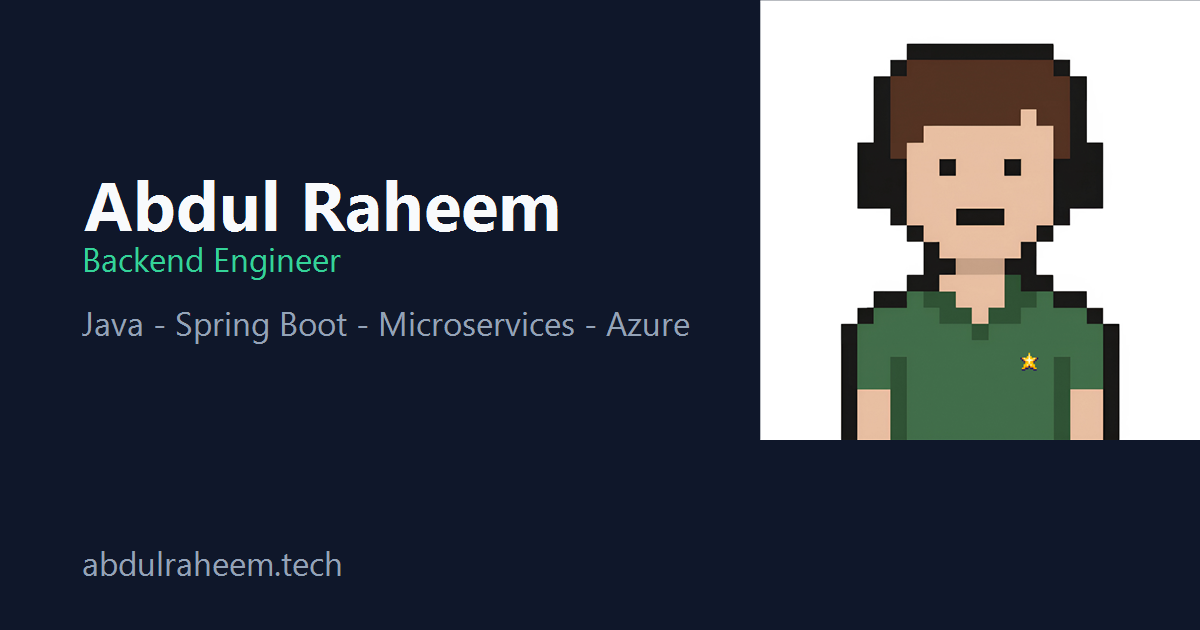
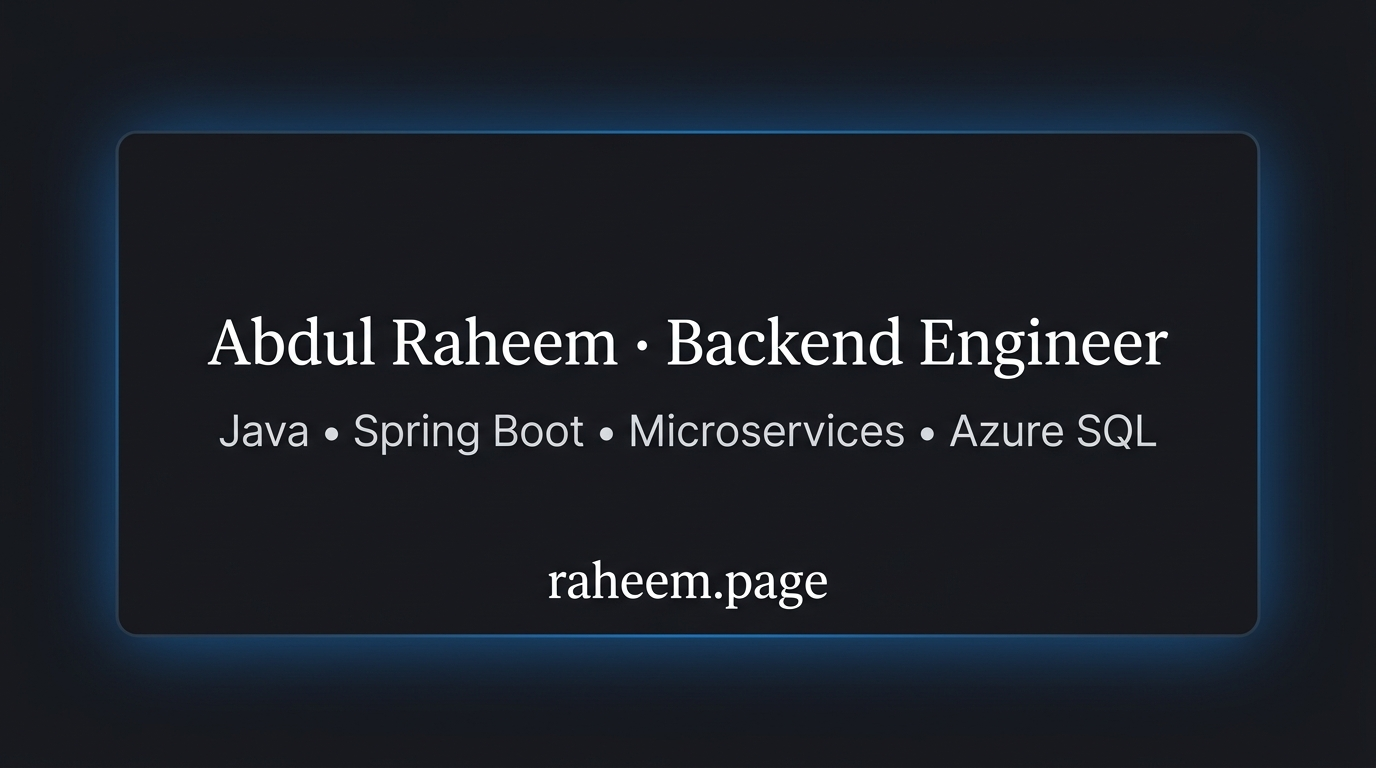
SEO

diff --git a/src/pages/index.js b/src/pages/index.js
@@ -49,7 +49,7 @@ export default function Home() {
         <meta property="og:locale" content="en_US" />
         <meta property="og:title" content={`${PROFILE.name} · ${PROFILE.title}`} />
         <meta property="og:description" content={PROFILE.bio} />
-        <meta property="og:image" content="https://raheem.page/og-image.png" />
+        <meta property="og:image" content="https://raheem.page/og-image.webp" />
         <meta property="og:image:width" content="1200" />
         <meta property="og:image:height" content="630" />
         <meta property="og:image:alt" content="Abdul Raheem - Backend Engineer Portfolio" />
@@ -59,14 +59,14 @@ export default function Home() {
         <meta name="twitter:url" content="https://raheem.page/" />
         <meta name="twitter:title" content={`${PROFILE.name} · ${PROFILE.title}`} />
         <meta name="twitter:description" content={PROFILE.bio} />
-        <meta name="twitter:image" content="https://raheem.page/og-image.png" />
+        <meta name="twitter:image" content="https://raheem.page/og-image.webp" />
         <meta name="twitter:image:alt" content="Abdul Raheem - Backend Engineer Portfolio" />
 
         {/* Asset preconnects */}
         <link rel="preconnect" href="https://raw.githubusercontent.com" crossOrigin="anonymous" />
         <link rel="dns-prefetch" href="https://raw.githubusercontent.com" />
-        <link rel="icon" href={`${base}/profile-favicon.png`} type="image/png" />
-        <link rel="apple-touch-icon" href={`${base}/profile-favicon.png`} />
+        <link rel="icon" href={`${base}/profile-favicon.webp`} type="image/webp" />
+        <link rel="apple-touch-icon" href={`${base}/profile-favicon.webp`} />
 
         {/* Structured Data (JSON-LD) */}
         <script
@@ -118,6 +118,13 @@ export default function Home() {
                   name: `${PROFILE.name} · ${PROFILE.title}`,
                   description: PROFILE.bio,
                   mainEntity: { '@id': 'https://raheem.page/#person' },
+                },
+                {
+                  '@type': 'WebSite',
+                  '@id': 'https://raheem.page/#website',
+                  url: PROFILE.website,
+                  name: `${PROFILE.name} Portfolio`,
+                  publisher: { '@id': 'https://raheem.page/#person' },
                 },
               ],
             }),

diff --git a/src/components/features/BentoProjects.js b/src/components/features/BentoProjects.js
@@ -19,9 +19,25 @@ export const BentoProjects = () => {
           >
             <div className="flex flex-col gap-2.5">
               <div className="flex items-center justify-between gap-2">
-                <h3 className="text-sm sm:text-base font-bold text-(--color-text-primary) tracking-tight">
-                  {project.title}
-                </h3>
+                <div className="flex items-center gap-2">
+                  <h3 className="text-sm sm:text-base font-bold text-(--color-text-primary) tracking-tight">
+                    {project.title}
+                  </h3>
+                  {project.repoUrl && (
+                    <a
+                      href={project.repoUrl}
+                      target="_blank"
+                      rel="noopener noreferrer"
+                      className="text-(--color-text-muted) hover:text-(--color-accent-blue) transition-colors"
+                      title="View GitHub Repository"
+                      aria-label={`View GitHub repository for ${project.title}`}
+                    >
+                      <svg className="w-3.5 h-3.5 fill-current" viewBox="0 0 24 24">
+                        <path d="M12 0C5.37 0 0 5.37 0 12c0 5.31 3.435 9.795 8.205 11.385.6.105.825-.255.825-.57 0-.285-.015-1.23-.015-2.235-3.015.555-3.795-.735-4.035-1.41-.135-.345-.72-1.41-1.23-1.695-.42-.225-1.02-.78-.015-.795.945-.015 1.62.87 1.845 1.23 1.08 1.815 2.805 1.305 3.495.99.105-.78.42-1.305.765-1.605-2.67-.3-5.46-1.335-5.46-5.925 0-1.305.465-2.385 1.23-3.225-.12-.3-.54-1.53.12-3.18 0 0 1.005-.315 3.3 1.23.96-.27 1.98-.405 3-.405s2.04.135 3 .405c2.295-1.56 3.3-1.23 3.3-1.23.66 1.65.24 2.88.12 3.18.765.84 1.23 1.905 1.23 3.225 0 4.605-2.805 5.625-5.475 5.925.435.375.81 1.095.81 2.22 0 1.605-.015 2.895-.015 3.3 0 .315.225.69.825.57A12.02 12.02 0 0024 12c0-6.63-5.37-12-12-12z"/>
+                      </svg>
+                    </a>
+                  )}
+                </div>
                 <span className="text-[11px] font-mono text-(--color-text-muted) tabular-nums shrink-0">
                   {project.period}
                 </span>

diff --git a/src/data/resumeData.js b/src/data/resumeData.js
@@ -16,7 +16,7 @@ export const PROFILE = {
   social: {
     email: "77abdulraheem@gmail.com",
     linkedin: "https://www.linkedin.com/in/raheem02",
-    github: "https://github.com/raheem022",
+    github: "https://github.com/Raheem02",
   },
 }
 
@@ -83,6 +83,7 @@ export const PROJECTS = [
     title: "Phishing URL Detection System",
     description:
       "Developed a multi-signal phishing URL detection pipeline analyzing 1.3 million URLs by aggregating lexical features, WHOIS metadata, SSL validation, and threat intelligence sources. Trained LightGBM and Random Forest classification models and built a FastAPI backend service delivering real-time URL risk scoring with sub-300ms inference latency.",
+    repoUrl: "https://github.com/Raheem02/minimal-portfolio",
     stack: [
       "FastAPI",
       "LightGBM",
@@ -99,6 +100,7 @@ export const PROJECTS = [
     title: "Learn with AR Platform",
     description:
       "Designed and developed an Android AR learning application funded by the Karnataka State Council for Science and Technology (KSCST). Built with Unity 3D and ARCore to deliver interactive 3D visualizations across 8 educational modules. Implemented markerless AR rendering, integrated Blender 3D assets, and optimized mobile graphics performance.",
+    repoUrl: "https://github.com/Raheem02/minimal-portfolio",
     stack: ["Unity 3D", "ARCore", "C#", "Blender", "Android"],
     featured: true,
   },

diff --git a/src/components/features/SidebarProfile.js b/src/components/features/SidebarProfile.js
@@ -6,7 +6,7 @@ import SocialIcons from '../ui/SocialIcons';
 
 export const SidebarProfile = () => {
   const { basePath } = useRouter();
-  const profileSrc = `${basePath || ''}/profile-160.png`;
+  const profileSrc = `${basePath || ''}/profile-160.webp`;
 
   return (
     <aside
@@ -67,7 +67,7 @@ export const SidebarProfile = () => {
         {/* Source action */}
         <div>
           <a
-            href="https://github.com/raheem022/Portfolio"
+            href="https://github.com/Raheem02/minimal-portfolio"
             target="_blank"
             rel="noopener noreferrer"
             className="w-full min-h-[44px] px-4 rounded-lg bg-(--color-surface-subtle) hover:bg-(--color-surface-subtle-hover) border border-(--color-border-subtle) hover:border-(--color-card-border-hover) text-(--color-text-primary) text-xs font-medium flex items-center justify-center transition-colors duration-150 focus-visible:outline-2 focus-visible:outline-(--color-accent-indigo) focus-visible:outline-offset-2 select-none"

diff --git a/public/resume.md b/public/resume.md
@@ -10,7 +10,7 @@
 - **Email**: 77abdulraheem@gmail.com
 - **Website**: https://raheem.page/
 - **LinkedIn**: https://www.linkedin.com/in/raheem02
-- **GitHub**: https://github.com/raheem022
+- **GitHub**: https://github.com/Raheem02
 
 ## Technical Skills
 - **Core Languages**: Java (JDK 8, JDK 17), Python, C#, SQL, JavaScript
